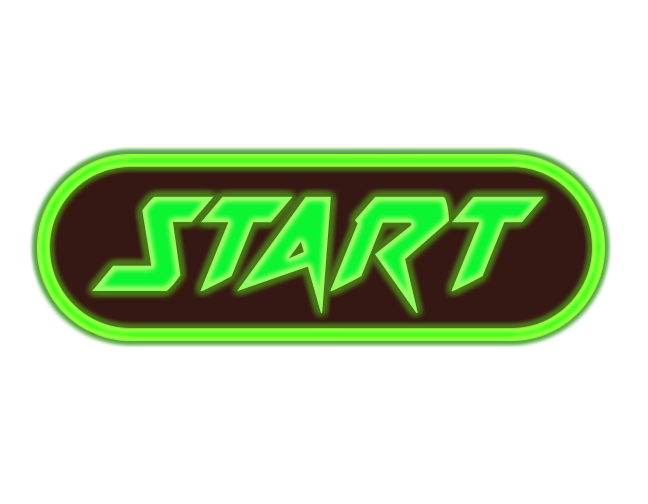
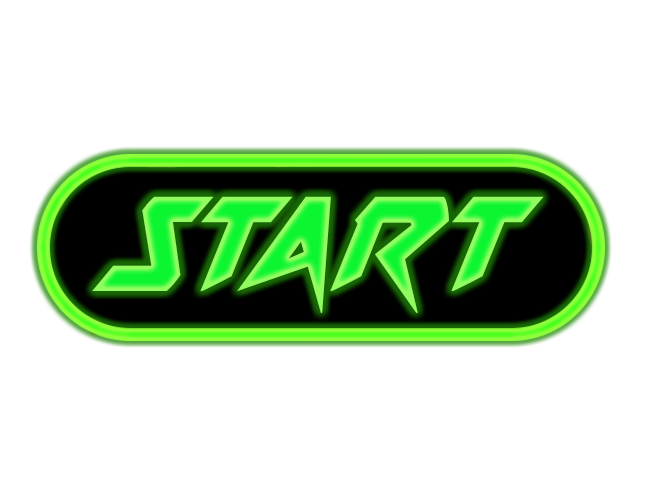
Added new Start Button and Fixed "Who Else"

Changed region(s): [[0.0617, 0.3274, 0.9259, 0.6548]]

diff --git a/Unity Project/Assets/GUI/GUIScripts/CharacterSelectUI.cs b/Unity Project/Assets/GUI/GUIScripts/CharacterSelectUI.cs
@@ -44,7 +44,11 @@ public class CharacterSelectUI : MonoBehaviour {
 //			feedMeSprite.enabled = false;
 
 			if(variables.selectedCharacters[0] == null){
-				whoElse.transform.position = new Vector3(-3f,-4.0f,0);
+				if (variables.selectedCharacters[1] == null) {
+					whoElse.transform.position = new Vector3(-3f,-4.0f,0);
+				} else {
+					whoElse.transform.position = new Vector3(-2.5f, -2.0f, 0);
+				}
 			}
 			else{
 				//whoElse.transform.position = new Vector3(2.01f,-.786f,0);
